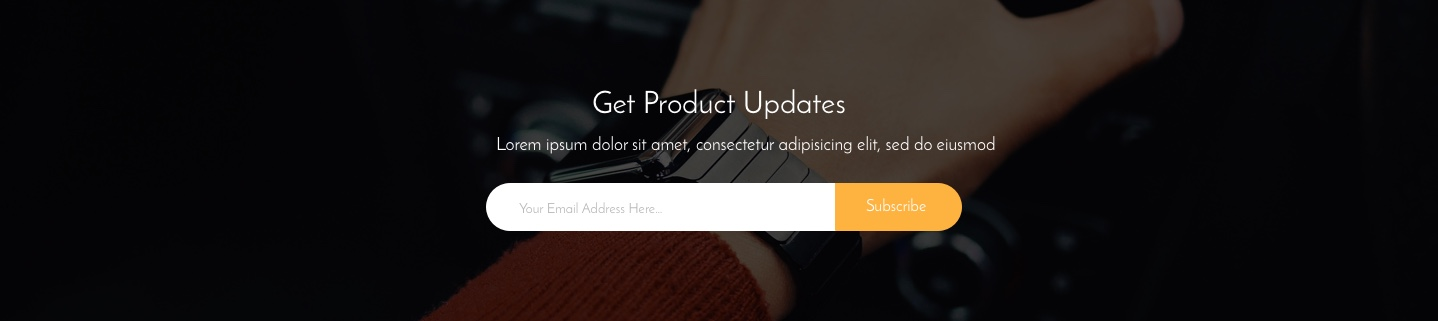
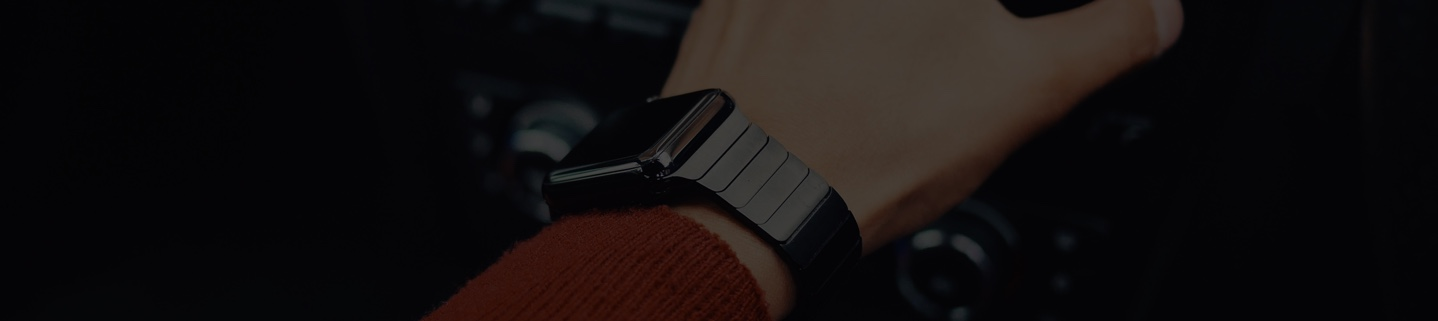
[master] - Removing DS_store, adding new sub image.

Changed region(s): [[0.3366, 0.5607, 0.6732, 0.7477], [0.3978, 0.2804, 0.5814, 0.3738], [0.3366, 0.4361, 0.7038, 0.4673]]

diff --git a/index.html b/index.html
@@ -1,31 +1,216 @@
-<!DOCTYPE html>
-<html>
-<head>
-	<meta name="viewport" content="width=device-width, initial-scale=1">
-	<title>Boilerplate Project</title>
-	<link rel="stylesheet" type="text/css" href="/assets/dist/css/main.css">
-	<link href="https://fonts.googleapis.com/css?family=Open+Sans" rel="stylesheet">
-</head>
+<!-- testing.html
 <body>
 	<main>
-		<img src="/assets/images/logo.png" />
-		<h1>ITA Fedora Project Boilerplate</h1>
+		<section class="section">
+			... this goes full width
+			<div class = "container">
+			... constrained to 1140px
+
+
+ --> 
+<!DOCTYPE html>
+<html>
+
+<head>
+	<title>Week 7 Challege</title>
+	<meta charset="utf-8" />
+	<link rel="stylesheet" type="text/css" href="assets/dist/css/main.css">
+	<meta name="viewport" content="width=device-width, initial-scale=1.0">
+	<link rel="stylesheet" href="./assets/fonts/themefisher/style.css">
+	<link href="https://fonts.googleapis.com/css?family=Josefin+Sans:100,100i,300,300i,400,400i,600,600i,700,700i" rel="stylesheet">
+</head>
+
+<body>
+	<header class="header">
+		<div class="container">
+			<h1 class="header-logo">Vex</h1>
+			<ul class="header-menu">
+				<li>Home</li>
+				<li>About</li>	
+				<li>Services</li>
+				<li>Contact</li>
+			</ul>
+		</div>
+		<div class="clearfix"></div>
+	</header>
+	<main>
+		<section class="section">
+			<div class="container container-one">
+					<img src="watch-one.svg" class="watch watch1" alt="">
+				<div class="section-one">
+					<h1>Believe in Technology, <br> Make the change</h1>
+					<p>Lorem ipsum dolor sit amet, consectetur adipisicing elit, sed do<br> eiusmod tempor incididunt ut labore et dolore magna. Lorem<br> ipsum dolor sit amet, consectetur adipisicing elit. Voluptas, modi<br> fugit in veritatis labore perferendis. Minima hic at, nostrum nihil!
+					<p><button type="button" class="buy-button">Buy Now With $199</button></p>
+				</div>
+			</div>
+					<div class="clearfix"></div>
+
+		</section>
+		<section class="section section-two">
+			<div class="container">
+				<div><h2>Our Core Features</h2></div>
+				<div class="core-columns">
+					<div class="core-column-one">
+						<ul>
+							<li><i class="tf-strategy"></i><h3>Smooth Touch</h3>Lorem ipsum dolor sit amet, consectetur<br> adipisicing elit. Voluptatem, inventore?</li>
+							 <li><i class="tf-ion-ios-briefcase-outline"></i> <h3>Easy Pricing</h3><p>Lorem ipsum dolor sit amet, consectetur<br> adipisicing elit. Voluptatem, inventore?</p></li>
+							 <li><i class="tf-ion-ios-camera-outline"></i><h3>Sotck Images</h3><p>Lorem ipsum dolor sit amet, consectetur<br> adipisicing elit. Voluptatem, inventore?</p></li>
+						</ul>
+					</div>
+					<div class="core-column-two"><img src="watch-two.jpg" class="watch watch-two" alt=""></div>
+					<div class="core-column-three">
+						<ul>
+							<li><i class="tf-strategy"></i><h3>Smooth Touch</h3><p>Lorem ipsum dolor sit amet, consectetur<br> adipisicing elit. Voluptatem, inventore?</p></li>
+							 <li><i class="tf-mobile"></i> <h3>Responsive Design</h3><p>Lorem ipsum dolor sit amet, consectetur<br> adipisicing elit. Voluptatem, inventore?</p></li>
+							 <li><i class="tf-ion-ios-cart-outline"></i><h3>Easy Pricing</h3><p>Lorem ipsum dolor sit amet, consectetur<br> adipisicing elit. Voluptatem, inventore?</p></li>
+						</ul>
+					</div>
+				</div>
+			</div>
+			<div class="clearfix"></div>
+		</section>
+
+
+		<section class="section section-primary">
+			<div class="container">
+				<div class="watch-three"> <img src="watch3.png" class="watch watch3" alt="">
+				</div>
+				<div class="section-three"> <h1>Designed By Professional, The Benefit For Creative Gigs</h1><p>Lorem ipsum dolor sit amet, consectetur adipisicing elit. Quia vel labore, deleniti minima<br> nisi, velit atque quaerat impedit ea maxime sunt accusamus at obcaecati dolor iure iusto<br> omnis quis eum.<br>Lorem ipsum dolor sit amet, consectetur adipisicing elit. Facilis commodi odit, illo, qui<br> aliquam dol</p></div>
+			</div>
+			<div class="clearfix"></div>
+		</section>
+		<section class="section">
+			<div class="container">
+				<h1 class="section-four-heading">Why Choose Apple Watch</h1>
+				<div class="watch-four"> <img src="watch4.svg" class="watch watch3" alt="">
+				</div>
+				<div class="section-four"> 
+					<h1>Lorem Ipsum Dolor Sit Amet.</h1>
+					<p>Lorem ipsum dolor sit amet, consectetur adipisicing elit. Voluptate, sed,<br> assumenda. Tenetur sed esse, voluptas voluptate est veniam<br> numquam, quis magni. Architecto minus suscipit quas, quo harum<br> deserunt consequatur cumque!</p>
+					<p>
+						<button type="button" class="check-features-button">Check Features</button>
+					</p>
+				</div>
+			</div>
+			<div class="clearfix"></div>
+		</section>
+		<section class="section">
+			<div class="container">
+				<div class="section-five"> 
+					<h1>Lorem Ipsum Dolor Sit Amet.</h1>
+					<p>Lorem ipsum dolor sit amet, consectetur adipisicing elit. Voluptate, sed,<br> assumenda. Tenetur sed esse, voluptas voluptate est veniam<br> numquam, quis magni. Architecto minus suscipit quas, quo harum<br> deserunt consequatur cumque!</p>
+					<p>
+						<button type="button" class="check-features-button">Check Features</button>
+					</p>
+				</div>
+				<div class="watch-five watch"> 
+					<img src="watch5.svg" alt="">
+				</div>	
+			</div>
+			<div class="clearfix"></div>
+		</section>
+		<section class="section">
+			<div class="container section-six">
+				<h1 class="watch-heading">Check Out Some Amazing Shots</h1>
+				<div class="section-six-watch"> 
+					<img src="watch14.svg" alt="">
+				</div>
+				<div class="section-six-watch"> 
+					<img src="watch11.svg" class="watch watch3" alt="">
+				</div>
+				<div class="section-six-watch">
+					<img src="watch12.svg" alt="" class= "watch watch-six">
+				</div>
+				<div class="section-six-watch">
+					<img src="watch13.svg" alt="" class= "watch watch-seven">
+				</div>
+			</div>
+		<div class="clearfix"></div>
+		</section>
+		<section class="section section-seven">
+			<div class="container">
+				<h1>Get Product Updates</h1>
+				<p>Lorem ipsum dolor sit amet, consectetur adipisicing elit, sed do eiusmod</p>
+				<form>
+					<div class="input-wrapper">
+						<input class="input" type="text" placeholder="Your email address here...">
+						<button class="submit" type="submit">Subscribe</button>
+					</div>
+				</form>
+			</div>
+		<div class="clearfix"></div>
+		</section>
+		<section class="section section-eight">
+			<div class="container">
+			<h1 class="watch-review">Watch Review</h1>
+			<div class="quote-column quote-column-1">
+			<ul class="quote-list">
+				<li>
+					<i class="tf-ion-quote"></i><p>A wonderful serenity has taken possession of my entire soul, like these sweet mornings of spring which I enjoy with my whole heart. I am alone, and feel the charm of existence in this spot, which was created for the bliss of souls like mine. I am so happy, my dear friend, so absorbed in the exquisite sense of mere tranquil existence, that I neglect my talents.</p>
+				</li>
+				<li><img class="face-photo" src="face.jpg" alt=""></li>
+				<li class="name">Jonathan Andrew</li>
+				<li class="CEO">CEO, Themefisher</li>
+			</ul>
+			</div>
+			<div class="quote-column quote-column-2">
+			<ul class="quote-list">
+				<li>
+					<i class="tf-ion-quote"></i><p>A wonderful serenity has taken possession of my entire soul, like these sweet mornings of spring which I enjoy with my whole heart. I am alone, and feel the charm of existence in this spot, which was created for the bliss of souls like mine. I am so happy, my dear friend, so absorbed in the exquisite sense of mere tranquil existence, that I neglect my talents.</p>
+				</li>
+				<li><img class="face-photo" src="face.jpg" alt=""></li>
+				<li class="name">Jonathan Andrew</li>
+				<li class="CEO">CEO, Themefisher</li>
+			</ul>
+			</div>
+			<div class="quote-column quote-column-3">
+			<ul class="quote-list">
+				<li>
+					<i class="tf-ion-quote"></i><p>A wonderful serenity has taken possession of my entire soul, like these sweet mornings of spring which I enjoy with my whole heart. I am alone, and feel the charm of existence in this spot, which was created for the bliss of souls like mine. I am so happy, my dear friend, so absorbed in the exquisite sense of mere tranquil existence, that I neglect my talents.</p>
+				</li>
+				<li><img class="face-photo" src="face.jpg" alt=""></li>
+				<li class="name">Jonathan Andrew</li>
+				<li class="CEO">CEO, Themefisher</li>
+			</ul>
+			</div>
+			<div class="buy-now section-seven-buy"><button type="button" class="buy-button">Buy Now With $199</button></div>		
+		</div>
+		<div class="clearfix"></div>	
+		</section>
 	</main>
+
+
+<footer class="mastfoot">
+	<h6 class="vex-foot">Vex</h6>
+	<ul class="footer-menu">
+		<li>Home</li>
+		<li>About</li>	
+		<li>Services</li>
+		<li>Contact</li>
+	</ul>
+	<p>Copyght Themefisher All rights Reserved</p>
+
+</footer>
+
 	<script type="text/javascript" src="/assets/dist/js/main.js"></script>
 </body>
+
 </html>
 
 
+<!-- CSSS
 
-all of the containers for content should be 1030px wide
+section background color
+height
 
-nav 
-hero
-content
-global class called container that it wil always be 1140px wide and centered on the page
+.container
+margin 0 auto
+max width: 1140px
+width 100%
 
-.container{
-margin: 0 auto;
-max-width: 1140px;
-width: 100%;
-}
+git status
+
+git add . 
+gs
+git commit -m 'dasffdska'
+git push

diff --git a/testing.html b/testing.html
@@ -14,7 +14,7 @@
 <head>
 	<title>Week 7 Challege</title>
 	<meta charset="utf-8" />
-	<link rel="stylesheet" type="text/css" href="assets/dist/css/main.css">
+	<link rel="stylesheet" type="text/css" href="./assets/dist/css/main.css">
 	<meta name="viewport" content="width=device-width, initial-scale=1.0">
 	<link rel="stylesheet" href="./assets/fonts/themefisher/style.css">
 	<link href="https://fonts.googleapis.com/css?family=Josefin+Sans:100,100i,300,300i,400,400i,600,600i,700,700i" rel="stylesheet">
@@ -183,11 +183,11 @@
 <footer class="mastfoot">
 	<h6 class="vex-foot">Vex</h6>
 	<ul class="footer-menu">
-				<li>Home</li>
-				<li>About</li>	
-				<li>Services</li>
-				<li>Contact</li>
-			</ul>
+		<li>Home</li>
+		<li>About</li>	
+		<li>Services</li>
+		<li>Contact</li>
+	</ul>
 	<p>Copyght Themefisher All rights Reserved</p>
 
 </footer>
@@ -211,5 +211,6 @@ width 100%
 git status
 
 git add . 
+gs
 git commit -m 'dasffdska'
 git push
